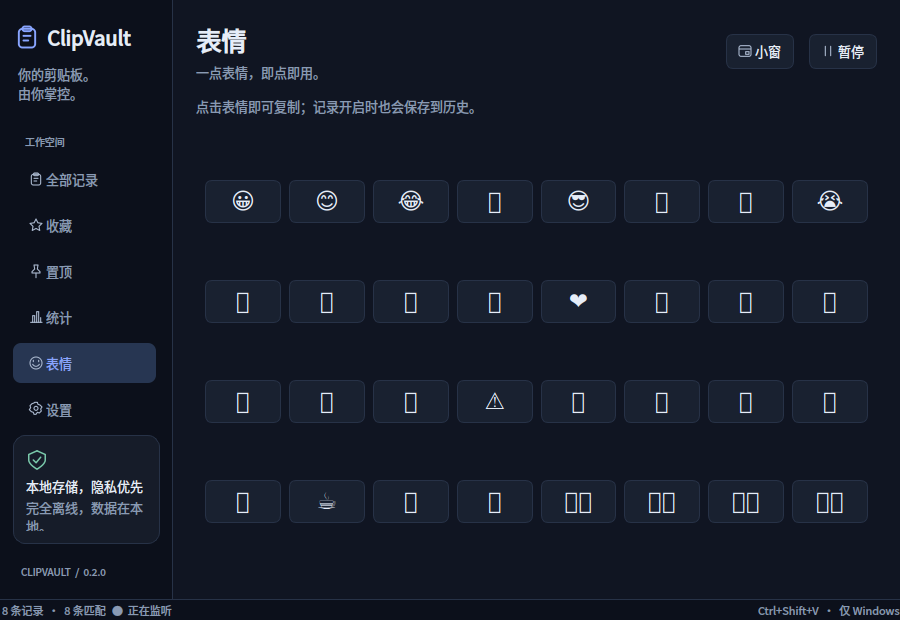
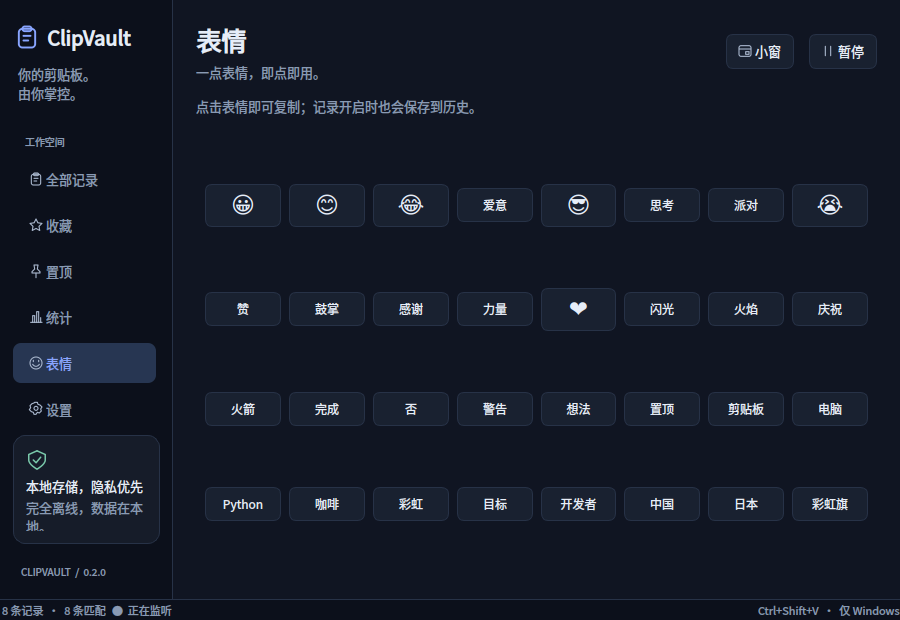
Keep the emoji picker readable when system fonts lack emoji glyphs

diff --git a/src/clipvault/ui/tools_pages.py b/src/clipvault/ui/tools_pages.py
@@ -1,6 +1,9 @@
 """Local aggregate statistics and an accessible, offline emoji picker."""
 
-from PySide6.QtCore import Signal
+import unicodedata
+
+from PySide6.QtCore import Qt, Signal
+from PySide6.QtGui import QFont, QFontDatabase, QFontMetrics
 from PySide6.QtWidgets import (
     QComboBox,
     QFrame,
@@ -95,6 +98,22 @@ class StatisticsPage(QWidget):
             widget.setText(f"{values.get(key, 0):,}")
 
 
+def emoji_glyphs_available(text, family):
+    # DejaVu has a few smileys, but symbol coverage does not imply emoji presentation.
+    if family == "DejaVu Sans" and any(
+        not (0x1F600 <= ord(char) <= 0x1F64F or char == "❤")
+        for char in text
+        if unicodedata.category(char) not in {"Cf", "Mn"}
+    ):
+        return False
+    metrics = QFontMetrics(QFont(family, 18))
+    return all(
+        metrics.inFontUcs4(ord(char))
+        for char in text
+        if unicodedata.category(char) not in {"Cf", "Mn"}
+    )
+
+
 class EmojiPage(QWidget):
     copy_requested = Signal(str)
 
@@ -110,12 +129,45 @@ class EmojiPage(QWidget):
         grid = QGridLayout(panel)
         grid.setSpacing(8)
         self.buttons = []
+        families = set(QFontDatabase.families())
+        self.emoji_font = next(
+            (
+                font
+                for font in (
+                    "Segoe UI Emoji",
+                    "Noto Color Emoji",
+                    "Noto Emoji",
+                    "Apple Color Emoji",
+                    "DejaVu Sans",
+                )
+                if font in families
+            ),
+            "Segoe UI",
+        )
         for i, (emoji, name) in enumerate(EMOJI):
             button = QPushButton(emoji)
             button.setProperty("i18nSkip", True)
             button.setMinimumSize(48, 48)
+            button._emoji = emoji
+            button._emoji_supported = emoji_glyphs_available(emoji, self.emoji_font)
+            display = emoji
+            if self.emoji_font not in {"Segoe UI Emoji", "Noto Color Emoji", "Apple Color Emoji"}:
+                display = display.replace("\ufe0f", "\ufe0e")
+                if len(display) == 1:
+                    display += "\ufe0e"
             button.setStyleSheet(
-                "font-family: 'Segoe UI Emoji', 'Noto Color Emoji', 'Noto Emoji'; font-size: 23px;"
+                f"font-family: '{self.emoji_font}'; font-size: 23px;"
+                if button._emoji_supported
+                else "font-size: 12px;"
+            )
+            button.setText(
+                display
+                if button._emoji_supported
+                else QFontMetrics(QFont("Segoe UI", 10)).elidedText(
+                    tr(name),
+                    Qt.TextElideMode.ElideRight,
+                    52,
+                )
             )
             button.setToolTip(tr(name))
             button.setAccessibleName(tr(name))
@@ -130,5 +182,11 @@ class EmojiPage(QWidget):
     def retranslate(self):
         translate_widgets(self)
         for button, name in self.buttons:
+            if not button._emoji_supported:
+                button.setText(
+                    QFontMetrics(QFont("Segoe UI", 10)).elidedText(
+                        tr(name), Qt.TextElideMode.ElideRight, 52
+                    )
+                )
             button.setToolTip(tr(name))
             button.setAccessibleName(tr(name))

diff --git a/tests/test_extensions.py b/tests/test_extensions.py
@@ -398,3 +398,18 @@ def test_full_shortcut_dismisses_mini_and_no_tray_escape_stays_recoverable(app, 
     qtbot.keyClick(app.mini, Qt.Key.Key_Escape)
     qtbot.waitUntil(lambda: app.window.isMinimized())
     assert not app.mini.isVisible()
+
+
+def test_emoji_missing_font_fallback_keeps_original_copy(qapp, qtbot, monkeypatch):
+    from clipvault.ui import tools_pages
+
+    monkeypatch.setattr(tools_pages, "emoji_glyphs_available", lambda *args: False)
+    page = tools_pages.EmojiPage()
+    qtbot.addWidget(page)
+    page.show()
+    copied = []
+    page.copy_requested.connect(copied.append)
+    button, name = page.buttons[0]
+    assert button.text() != "😀" and button.accessibleName() == tr(name)
+    qtbot.mouseClick(button, Qt.MouseButton.LeftButton)
+    assert copied == ["😀"]

diff --git a/README.md b/README.md
@@ -84,7 +84,7 @@ py -3.11 -m venv .venv
 
 中文短关键词和特殊字符采用参数化 LIKE 回退，会扫描历史；默认普通记录上限 5,000，几十万条记录的中文子串查询不承诺即时。英文较长关键词可走 FTS5 trigram 候选查询，再按字面验证。数据库、分类、PNG 编码和统计在独立 Qt 工作线程，主线程通过信号接收结果；搜索防抖 180ms、分页 50 条。
 
-真实 Windows 10/11 监听、系统图片/文件 MIME、物理快捷键、托盘、多显示器/DPI、开机启动与系统减少动效偏好仍需实机验证。Linux offscreen 集成测试不能替代它们。表情的呈现依赖系统字体；Windows 使用 Segoe UI Emoji。Linux 图形桌面并非正式支持目标。
+真实 Windows 10/11 监听、系统图片/文件 MIME、物理快捷键、托盘、多显示器/DPI、开机启动与系统减少动效偏好仍需实机验证。Linux offscreen 集成测试不能替代它们。表情的呈现依赖系统字体；Windows 使用 Segoe UI Emoji。缺少字形时显示可识别的名称，复制的仍是原始表情。Linux 图形桌面并非正式支持目标。
 
 ## EXE 打包
 
@@ -110,7 +110,7 @@ python -m clipvault --smoke-test
 python scripts/capture_screenshots.py --offscreen
 ```
 
-当前本地测试：**122 passed / 3 skipped**，跳过真实 Windows 桌面测试。原生验证请阅读 [清单](docs/WINDOWS_CHECKLIST.md)，设置 `QT_QPA_PLATFORM=windows`、`CLIPVAULT_DESKTOP_TESTS=1` 后运行对应测试。CI 在 Ubuntu Python 3.11 / 3.12 执行检查，在 Windows 构建并验证 onedir、上传完整产物；不假定 Runner 具备真实交互桌面。结果以 [验证记录](docs/VALIDATION.md) 和实际 Actions 为准。
+当前本地测试：**123 passed / 3 skipped**，跳过真实 Windows 桌面测试。原生验证请阅读 [清单](docs/WINDOWS_CHECKLIST.md)，设置 `QT_QPA_PLATFORM=windows`、`CLIPVAULT_DESKTOP_TESTS=1` 后运行对应测试。CI 在 Ubuntu Python 3.11 / 3.12 执行检查，在 Windows 构建并验证 onedir、上传完整产物；不假定 Runner 具备真实交互桌面。结果以 [验证记录](docs/VALIDATION.md) 和实际 Actions 为准。
 
 ## 贡献与许可
 

diff --git a/README_EN.md b/README_EN.md
@@ -85,7 +85,7 @@ No core network requests, accounts or telemetry. Markdown denies network, local,
 
 Chinese short/special searches use parameterized LIKE and may scan history. The default ordinary-history limit is 5,000; immediate queries over hundreds of thousands of clips are not promised. Longer ASCII terms can use FTS5 trigram candidates plus literal validation. Database/classification/PNG work is serialized in a QThread; UI results use signals, 180ms search debounce and 50-row pages.
 
-Native Windows clipboard image/file MIME, physical keyboard, tray, startup, displays/DPI and reduced-motion behavior still need desktop checks. Linux offscreen tests cannot replace them. Emoji appearance depends on OS fonts (Segoe UI Emoji on Windows). Linux graphical desktop support is not a release target.
+Native Windows clipboard image/file MIME, physical keyboard, tray, startup, displays/DPI and reduced-motion behavior still need desktop checks. Linux offscreen tests cannot replace them. Emoji appearance depends on OS fonts (Segoe UI Emoji on Windows); missing glyphs fall back to readable names while copying the original emoji. Linux graphical desktop support is not a release target.
 
 ## Build an EXE
 
@@ -111,7 +111,7 @@ python -m clipvault --smoke-test
 python scripts/capture_screenshots.py --offscreen
 ```
 
-Local result: **122 passed / 3 skipped**, the latter are opt-in Windows desktop tests. Use the [checklist](docs/WINDOWS_CHECKLIST.md), `QT_QPA_PLATFORM=windows` and `CLIPVAULT_DESKTOP_TESTS=1` for native checks. CI checks Ubuntu Python 3.11/3.12 and builds/smokes/uploads the Windows onedir bundle. It does not assume an interactive runner. See [validation](docs/VALIDATION.md) and actual Actions.
+Local result: **123 passed / 3 skipped**, the latter are opt-in Windows desktop tests. Use the [checklist](docs/WINDOWS_CHECKLIST.md), `QT_QPA_PLATFORM=windows` and `CLIPVAULT_DESKTOP_TESTS=1` for native checks. CI checks Ubuntu Python 3.11/3.12 and builds/smokes/uploads the Windows onedir bundle. It does not assume an interactive runner. See [validation](docs/VALIDATION.md) and actual Actions.
 
 ## Contribute and license
 

diff --git a/docs/RELEASE_NOTES_0.2.0.md b/docs/RELEASE_NOTES_0.2.0.md
@@ -13,6 +13,6 @@
 
 统计从本版启用后开始。粘贴事件不由系统剪贴板提供，本版不记录键盘，不编造粘贴次数。图片无敏感内容识别，复制保密内容前请暂停。
 
-本机验证：122 passed / 3 skipped，Ruff 与源码隔离启动检查通过。Windows 构建结果与下载位置更新在 README 和 VALIDATION；Windows 10/11 真实桌面验收仍未完成，因此为预览版。
+本机验证：123 passed / 3 skipped，Ruff 与源码隔离启动检查通过。Windows 构建结果与下载位置更新在 README 和 VALIDATION；Windows 10/11 真实桌面验收仍未完成，因此为预览版。
 
 完整解压 onedir ZIP，再运行 ClipVault.exe；保留 `_internal`、`licenses` 和通知文件。Actions 下载需 GitHub 登录，产物有保留期限。

diff --git a/docs/VALIDATION.md b/docs/VALIDATION.md
@@ -4,7 +4,7 @@
 
 ## 已完成
 
-- pytest：**122 passed，3 skipped，0 failed**；完整测试结果生成于隔离检查目录。
+- pytest：**123 passed，3 skipped，0 failed**；完整测试结果生成于隔离检查目录。
 - Ruff 规则和格式检查通过。
 - 源码隔离启动检查退出码 0；验证窗口、资源、SQLite、Pygments、Markdown 转换、PNG 编码/读取与干净退出，不读取真实剪贴板。
 - 9 张真实 Qt 窗口截图：英文深/浅色、中文设置、Markdown、小窗、图片、文件路径、统计和 Emoji。仅公开合成样例；使用临时数据库与示例路径。
